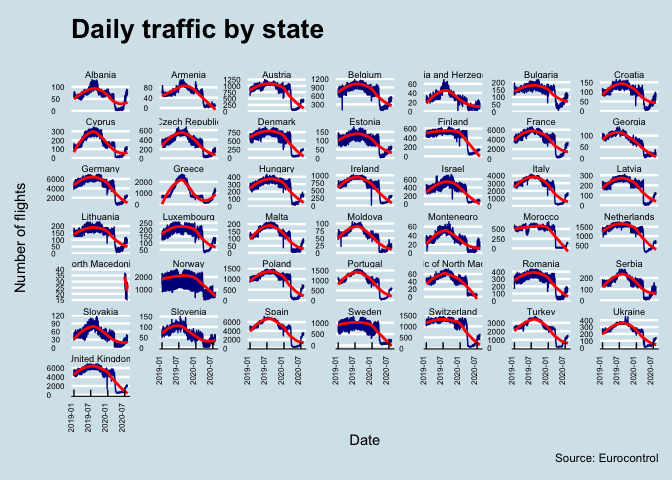
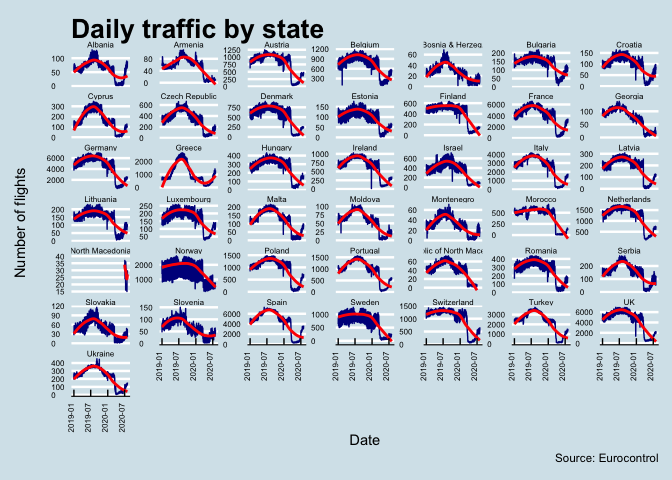
Updated

diff --git a/Mobility and Transportation/Airport/airport.md b/Mobility and Transportation/Airport/airport.md
@@ -1,0 +1,12 @@
+Airport
+================
+Selim Ach
+10/2/2020
+
+### Overview of the daily traffic in all European airports. Trend is added using a standard moving average technique.
+
+![](airport_files/figure-gfm/unnamed-chunk-2-1.png)<!-- -->
+
+### Overview of the daily traffic by country.
+
+![](airport_files/figure-gfm/unnamed-chunk-3-1.png)<!-- -->
